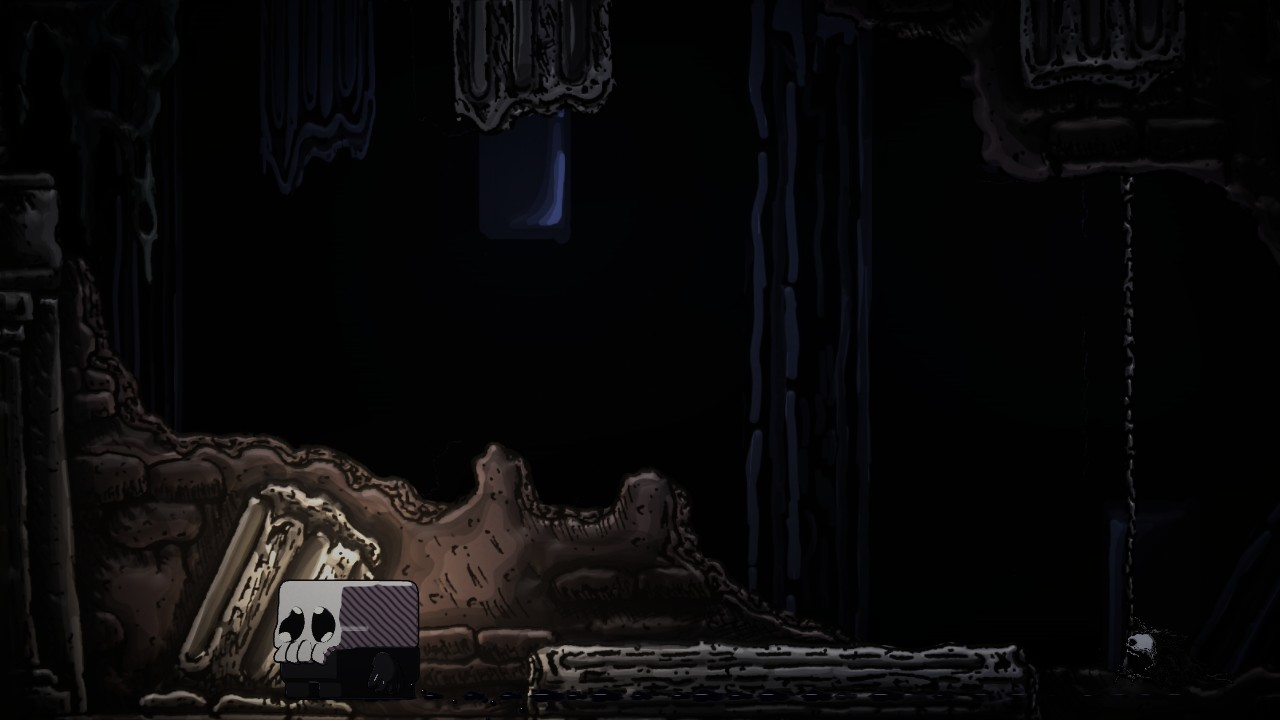
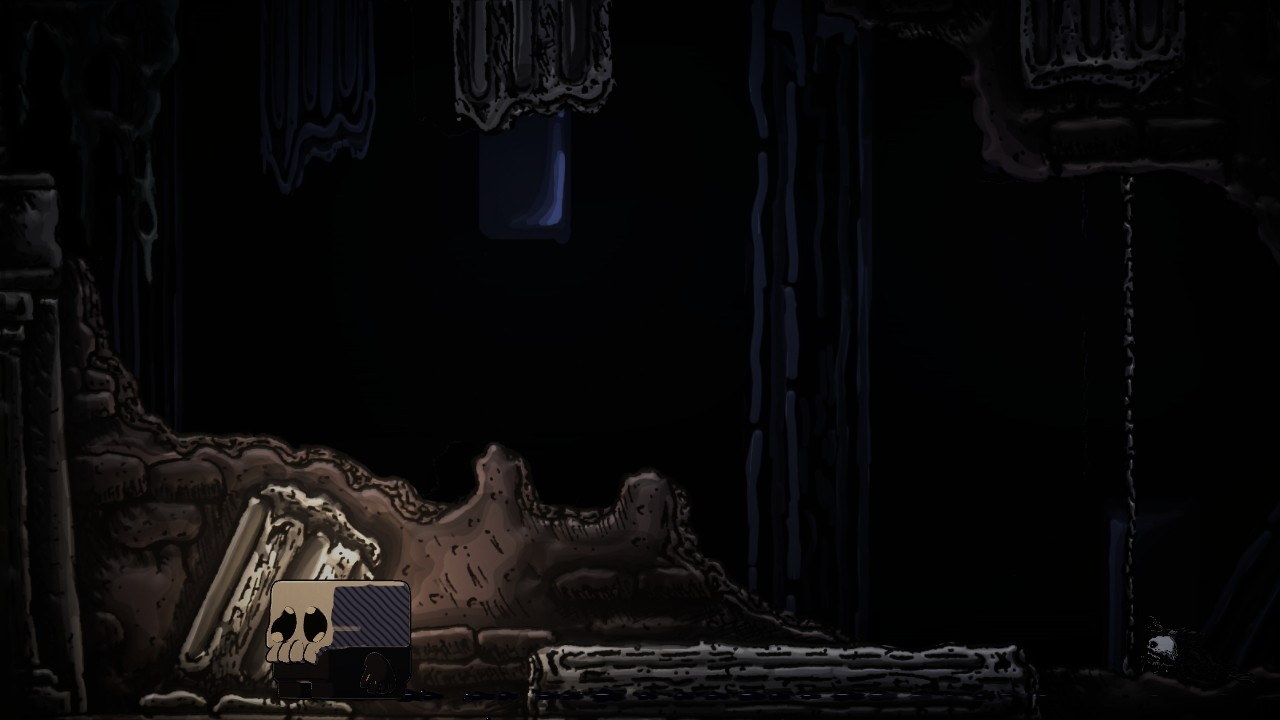
README: Murther bajo la luz del escenario, capturas actualizadas

Changed region(s): [[0.1875, 0.7944, 0.3438, 0.9472], [0.875, 0.8556, 0.9375, 0.9472], [0.625, 0.9472, 0.6562, 0.9778]]

diff --git a/README.md b/README.md
@@ -14,6 +14,7 @@ Todo se hizo y verificó en **Unity 6000.3.23f1**: compilación sin errores ni a
 | `e1c25bc` | 6. Revisión gráfica: shader de tinta para Murther |
 | `83d78d6` | 7. Revisión gráfica: post procesado y gotas de tinta |
 | `bf66903` | 8. Iluminación de los fondos 2D |
+| `b597c9d` | 8. Iluminación: Murther bajo la misma luz que el escenario |
 | *(último)* | README y capturas actualizados |
 
 ## Comparación con `main`
@@ -141,7 +142,7 @@ Los cuatro materiales de `Assets/Murther/Materiales` conservan su GUID: la escen
 | *Borde de luz*, *Brillo duro* | Separación del cuerpo negro contra el fondo. |
 | *Contorno → Grosor* | En metros; 0 lo quita. |
 
-La dirección de la luz de personaje se ajusta en `Murther` → `MurtherController` → *Luz Tinta* (frente, arriba, hacia la cámara).
+La dirección de la luz de personaje se ajusta en `Murther` → `MurtherController` → *Luz Tinta* (frente, arriba, hacia la cámara), y su color en *Color Luz Tinta* (ver sección 8).
 
 ## 7. Revisión gráfica: post procesado y gotas de tinta
 
@@ -191,6 +192,19 @@ Los fondos eran una imagen sin iluminar: el dibujo se veía igual en todas parte
 | **Bloom** (umbral 1.1) y viñeta 0.3 → 0.38 en `Niveles_PostProcesado` | Los cristales de los faroles y el vitral, al recibir mucha luz, resplandecen. El umbral queda por encima del blanco de Murther. |
 | Los Corredores usan el mismo shader, sin relieve (`GeneradorCorredores` → *Material Sprite*) | Si siguieran sin iluminar, brillarían al 100 % en medio de la penumbra. Solo se aplica en los niveles: en las pantallas de controles siguen igual. |
 | Los niveles 2 y 3 reciben una *Luz Direccional* | No tenían ninguna luz. |
+
+**Murther bajo la misma luz.** Con el escenario en penumbra, Murther seguía con su luz blanca y su sombra malva clara: era lo único a pleno brillo y volvía a verse pegado encima.
+
+| Antes | Después |
+|---|---|
+| ![Murther antes del ajuste de luz](Docs/Comparacion/iluminacion_murther_antes.jpg) | ![Murther bajo la luz del escenario](Docs/Comparacion/iluminacion_murther_despues.jpg) |
+
+| Cambio | Por qué |
+|---|---|
+| La luz de personaje toma el **color de la luz que Murther lleva** (`MurtherController` → *Color Luz Tinta*, *Intensidad Luz Tinta*) | El casco y el muro a su alrededor quedan bajo la misma luz cálida de vela, un poco menos saturada en el casco para que siga leyéndose como hueso. Intensidad 0 vuelve a la luz principal. |
+| **Sombra del casco más oscura y fría** (0.5, 0.42, 0.48 → 0.34, 0.31, 0.38) | La sombra malva clara brillaba más que las zonas iluminadas del fondo. Ahora cae en el mismo tono que la penumbra; la trama sigue igual. |
+| El shader recibe las **luces puntuales** de la escena, en bandas | Al pasar junto a un farol o el vitral, Murther toma su color como el muro. |
+| **Contraluz** (*Contraluz* en los materiales del casco y del cuerpo) | La luz que Murther proyecta sobre el muro queda detrás de él y le enciende el borde de la silueta: lo separa del fondo oscuro sin recortarlo con una línea fija. |
 
 **Cómo ajustarlo** (sin tocar código):
 
